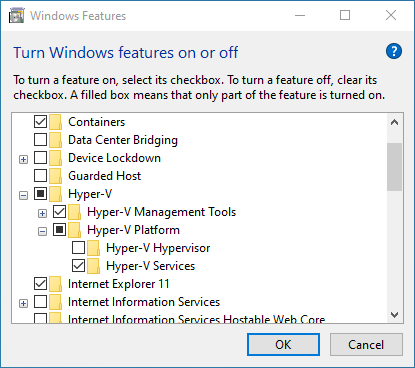
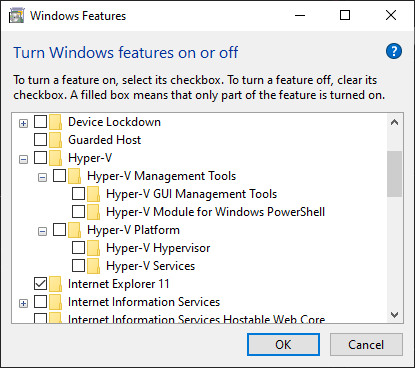
Updated documentation

diff --git a/docs/setup.md b/docs/setup.md
@@ -1,150 +1,93 @@
 # Development Enviroment Setup
-This docuemnent contains instructions on how to setup development enviroment for the TBDr ERL codebase. These instructions have been tested on Windows 10 and Ubuntu 18.04.
+Development is done in a Vagrant virtual machine, this ensures everyone is working in a consistent enviroment. The instructions in this document will help you get set up.
 
 ## Table of Contents
 - [Useful Links](#useful)
-- [Setting up a VM on Windows](#windows)
-- [Docker Development Enviroment](#docker)
-- [Using VSCode for Development](#vscode)
+- [FAQs](#faq)
+- [Software Installation](#install)
+- [USB Devices](#usb)
 - [Next Steps](#steps)
 
-# <a name="useful"></a>Useful Links
-- [Docker overview](https://docs.docker.com/get-started/overview/)
+## <a name="useful"></a>Useful Links
 - [Oracle VirtualBox](https://www.virtualbox.org/)
-- [VSCode IDE](https://code.visualstudio.com/)
-- [Ubuntu 18.04](https://releases.ubuntu.com/18.04/)
+- [Learn Vagrant](https://learn.hashicorp.com/collections/vagrant/getting-started)
 
-# <a name="windows"></a>Setting up a Virtual Machine on Windows
-To install a VM on windows follow the instructions below:
-1. Download and install [Oracle VirtualBox](https://www.virtualbox.org/)
-1. Download the latest Ubuntu 18.04 .iso [here](https://releases.ubuntu.com/18.04/)
-1. Disable Microsoft Hyper-v if enabled, see below
-1. Follow instructions for setting up virtual machine, [here](https://brb.nci.nih.gov/seqtools/installUbuntu.html)
-1. If using realsense cameras setup USB connections as below
-1. Follow developement enviroment setup, [see below](#docker)
-1. Do cool stuff
+# <a name="faq"></a>FAQs
+### What is a Virtual Machine?
+A Virtual Machine (VM) is a computer is created within a computer. The virtual machine is sandboxed from the rest of the system, meaning that the software inside a virtual machine can’t escape or tamper with the host computer. This seperation also means that when you break it you can easily tear it down and spin up a brand new VM. This produces an ideal development environment. [see more — youtube video on virtualisation](https://www.youtube.com/watch?v=XItj08D5KPk)
 
-## Disable Hyper-v
-In the start menu search for `Turn windows features on or off`. In the list make sure `Hyper-V -> Hyper-V Platform -> Hyper-V Hypervisors` is deselected as below, then restart your computer.
+### What is Vagrant?
+Vagrant simplifies the creation of virtual machines by generating them based on a Vagrantfile. By doing this everyone ends up with identical developement enviroments. [See more — vagrantup.com](https://www.vagrantup.com/)
+
+### How do I add new Software to the VM?
+The VM acts just like a normal Linux installation so you can add software as normal. However to share any changes to the dev enviroment with other developers the Vagrant setup files will need to be changed. The files to editing are the `Vagrantfile` and `bootstrap.sh` files.
+
+You may be periodically asked to run `vagrant provision` to keep your VM up to date.
+
+
+# <a name="install"></a>Installation
+Follow the instructions below to get setup.
+
+## Host Software
+You need to install Virtualbox, Vagrant and Git
+
+- [Oracle VirtualBox](https://www.virtualbox.org/)
+- [HashiCorp Vagrant](https://www.vagrantup.com/docs/installation)
+- [Git](https://github.com/git-guides/install-git)
+
+On windows you will need to disable hyper-v. Then in the start menu search for `Turn windows features on or off`. In the list make sure `Hyper-V` is deselected as below, if you have to change this restart your computer.
 
 [<img src="images/disable-hyper-v.png" width="300"/>](images/disable-hyper-v.png)
 
-<!-- ## Connecting USB in VMWare
-Make sure USB is set to 3.1. Then once the VM is turned on connect to the USB device throught the `VM -> Removable Devices` menu. See below
 
-[<img src="images/set_usb_vmware_cropped.png" width="300"/>](images/set_usb_vmware.png) [<img src="images/Connect_Realsense_VMWare.png" width="300"/>](images/Connect_Realsense_VMWare.png) -->
+## Virtual Machine Setup
+- Open terminal/command prompt/powershell and navigate to a suitable folder for install
 
-## Connectiong USB Devices in Virtual Box
+    `cd Documents`
+
+- Git clone repository
+
+    `git clone https://github.com/fsherratt/upgraded-parakeet.git`
+
+- Open the downloaded repository
+
+    `cd upgraded-parakeet`
+
+- Before we use vagrant we need to install the vbguest plugin
+
+    `vagrant plugin install vagrant-vbguest`
+
+- Start up the vagrant machine — Go get a coffee this will take a while
+
+    `vagrant up`
+    
+- When that has finished running reboot the vm 
+
+    `vagrant reload`
+
+- In the virtual machine window click on the vagrant user, a gear icon should appear in the bottom right corner. Click the gear and select `Ubuntu on Wayland`
+
+- Login using the password `vagrant`
+
+- If everything has worked correctly you should now have a full screen virtual machine (you may need to log in and out) — Now go and make something awesome.
+
+For next steps see — [Next Steps](#next)
+
+
+# <a name="usb"></a>Connecting USB Devices in Virtual Box
+If using physical realsense cameras, setup USB connections as below
+
 In the setting menu of the VM make sure the USB adapter is set to USB 3. Turn on your VM and once connected you can pass through a USB connecting through the `Devices -> USB` menu. The `lsusb` command can be run to confirm the USB device has been detected in the VM. 
 
-[<img src="images/set_usb_virtualbox_cropped.png" width="300"/>](images/set_usb_virtualbox.png) [<img src="images/Connect_Realsense_VirtualBox.png" width="300"/>](images/Connect_Realsense_VirtualBox.png)
+The T265 is a bastard and changes it's enumerationa after connection, it can be useful to run realsense viewer in the host machine before connecting to the VM
 
-# <a name="docker"></a>Docker Development Enviroment
-Project developement is undertaken in a docker enviroment. Docker gives a consistent devopment enviroment for everyone reducing the setup time significantly. To setup the developement enviroment follow the steps below:
+<!-- [<img src="images/set_usb_virtualbox_cropped.png" width="500"/>](images/set_usb_virtualbox.png) -->
 
-1. Install docker - Follow the instructions listed below
-    - [Install Docker Engine on Ubuntu](https://docs.docker.com/engine/install/ubuntu/)
-    - [Post-installation steps for Linux](https://docs.docker.com/engine/install/linux-postinstall/)
+[<img src="images/Connect_Realsense_VirtualBox.png" width="500"/>](images/Connect_Realsense_VirtualBox.png)
 
-2. Clone the github repository
-    ```bash
-    $ git clone https://github.com/fsherratt/upgraded-parakeet.git
-    ```
 
-3. Build the docker container, get a drink this may take a while. 
-    ```bash
-    $ cd upgraded-parakeet
-    $ sudo docker build --tag tbd-erl .
-    ```
-    The docker file is built according to the instructions provided by a Dockerfile, in this case the file in the root directory of the repository, [Dockerfile](../Dockerfile).
-
-4. Launch the docker container using `run` command and begin playing.
-    ```bash
-    $ sudo docker run --name erl_dev -it tbd-erl
-    ```
-
-## Docker Commands
-Some notes on the above command. The `-it` flag launces it as an interative terminal session. Alternatively the `-d` can be used to start a dettached process. The `--name` flag allows friendly names to be specified for the contianer instance. If ommited a generated name is used instead.
-
-### Accessing files
-The `--mount` flag can be used to connect host OS directories to a docker container, more info here [_Use bind mounts_](https://docs.docker.com/storage/bind-mounts/). Using the command below a folder can be mounted to `workspaces/upgraded-parakeet` directory.
-```bash
-$ sudo docker run \
-    --mount source=[PATH_TO_UPGRADED_PARAKEET],target=/workspaces/upgraded-parakeet,type=bind \
-    ... \
-    tbd-erl 
-```
-
-### Accessing Host USB Devices
-To allow a docker container to access host USB device it must be running in an elevated privilieged mode, this can be achieved using the `--privileged` flag. More details on the flag are available here [Priviege Mode](https://docs.docker.com/engine/reference/run/#runtime-privilege-and-linux-capabilities)
-```bash
-$ sudo docker run --privileged ...
-``` 
-
-### Displaying Graphics from Docker
-Docker is a command line only enviroment so in order to display graphics suitable resource must be presented to it. The following Docker options lines connect the host X11 server to the docker enviroment, _tested on Ubunutu 18.04_. This is useful for visualising results using commands such as `cv2.imshow`.
-```bash
-$ sudo docker run \
-    --env DISPLAY \
-    --mount source=/tmp/.X11-unix,target=/tmp/.X11-unix,type=bind \
-    ...
-```
-<!-- --mount source=/dev,target=/dev,type=bind \ -->
-The following line must be run in the docker host OS to allos external access to the host X11 service. It must be run in the after each restart
-```bash
-$ xhost +
-access control disabled, clients can connect from any host
-```
-
-### Controlling containers
-To list all available containers use the `ps` command, [_docker ps_](https://docs.docker.com/engine/reference/commandline/ps/). The `-a` flag list all containers including those that aren't currently running
-```bash
-$ docker ps -a
-```
-
-To start a stopped container the docker `start` command can be used, [_docker start_](https://docs.docker.com/engine/reference/commandline/start/)
-```bash
-sudo docker start -d erl_dev
-```
-
-To connect to a running container the `attach` command can be used, [_docker attach_](https://docs.docker.com/engine/reference/commandline/attach/)
-```bash
-sudo docker attach erl_dev
-```
-
-To stop a running container, you guessed it... The stop command is used, [_docker stop_](https://docs.docker.com/engine/reference/commandline/stop/)
-```bash
-sudo docker stop erl_dev
-```
-
-### Complete Command
-```bash
-$ sudo docker run -d \
-    --name erl_dev
-    --privileged \
-    -env DISPLAY \
-    --mount source=[PATH_TO_UPGRADED_PARAKEET],target=/workspaces/upgraded-parakeet,type=bind \
-    --mount source=/tmp/.X11-unix,target=/tmp/.X11-unix,type=bind \
-    tbd-erl
-```
-
-Additional commands see [_Command-line reference_](https://docs.docker.com/engine/reference/commandline/docker/)
-
-# <a name="vscode"></a>Using VSCode for Development
-As an alternative to command line Microsoft's [VSCode IDE](https://code.visualstudio.com/) can be used. 
-
-## VSCode setup
-The [_ms-vscode-remote.remote-containers_](https://marketplace.visualstudio.com/items?itemName=ms-vscode-remote.remote-containers) extension allows VSCode to initialise and control Docker containers removing the need for many of the above commands. Once VSCode is installed follow the link above or search for `remote containers` in the extensions tab.
-
-VSCodes interation with the repository Dockerfile container is specified in the `.devcontainer/devcontainer.json` file. As a starter for this repsoitory see here: [_devcontainer.json_](example/devcontainer.json)
-
-Many more details can be found here [VS Code Remote Development](https://code.visualstudio.com/docs/remote/remote-overview).
-
-Additionaly IDE settings can be set using specified using the `.vscode/settings.json` file. An example settings file for this project can be found here [_.vscode/_settings.json_](example/settings.json).
-
-# <a name="useful"></a>Next Steps
+# <a name="next"></a>Next Steps
 Now you have a working development enviroment setup you can follow the other documentation to get started with the project.
 
-- For launching modules see the [startup](startup.md) documentation.
 - For details of simulation enviroments see [...](#)
 
